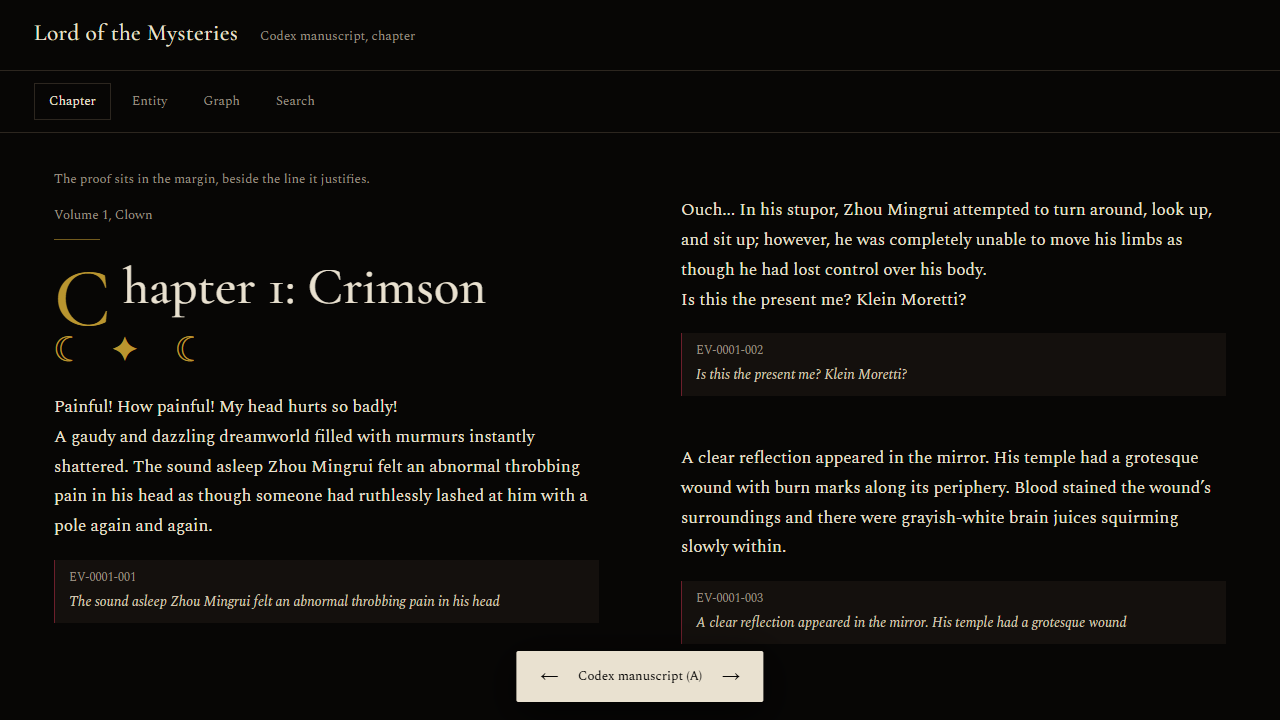
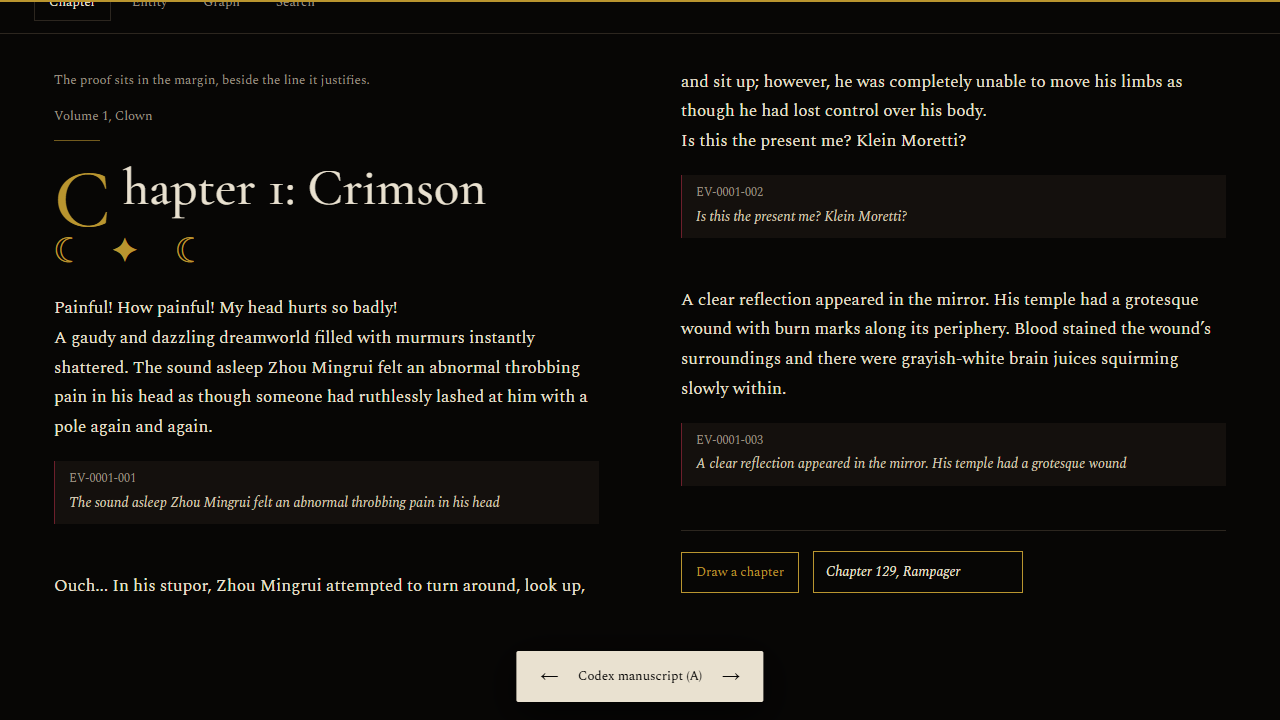
prototype: playful chapter draw and reading progress

diff --git a/prototype/art-direction/PROTOTYPE-WIPE-ME-site.html b/prototype/art-direction/PROTOTYPE-WIPE-ME-site.html
@@ -13,6 +13,11 @@
 @font-face{font-family:Spectral;src:url('fonts/spectral-italic.woff2') format('woff2');font-weight:400;font-style:italic;font-display:swap}
 :root{--ink:#070605;--vellum:#e9e1d0;--gold:#b9952f;--oxblood:#6d1f2b;--ash:#9a9080;--veil:#14100d;--line:#2c261f}
 *{box-sizing:border-box}
+#progress{position:fixed;top:0;left:0;height:2px;background:var(--gold);width:0;z-index:100;transition:width .12s linear}
+.variant-a .draw{margin-top:44px;padding-top:20px;border-top:1px solid var(--line);break-inside:avoid}
+.variant-a .draw button{background:none;border:1px solid var(--gold);color:var(--gold);padding:8px 14px;cursor:pointer;font-size:.8125rem}
+.variant-a .card{display:inline-block;margin-left:14px;padding:8px 12px;border:1px solid var(--line);min-width:210px;color:var(--ash);font-style:italic;font-size:.875rem}
+.variant-a .card.shown{color:var(--vellum);border-color:var(--gold)}
 body{margin:0;background:var(--ink);color:var(--vellum);font:400 1.0625rem/1.75 Spectral,Georgia,serif;min-height:100vh;padding-bottom:84px}
 button,input{font:inherit;color:inherit}
 button:focus-visible,input:focus-visible{outline:2px solid var(--gold);outline-offset:3px}
@@ -94,6 +99,7 @@ button:focus-visible,input:focus-visible{outline:2px solid var(--gold);outline-o
 </style>
 </head>
 <body>
+<div id="progress" aria-hidden="true"></div>
 <header class="topbar"><span class="brand">Lord of the Mysteries</span><small id="crumb"></small></header>
 <nav class="screens" id="screens"></nav>
 <main class="stage" id="stage"></main>
@@ -144,13 +150,17 @@ function render(){
  document.getElementById('screens').innerHTML=SCREENS.map(x=>`<button data-screen="${x.key}" class="${x.key===screen?'on':''}">${x.label}</button>`).join('');
  document.querySelectorAll('#screens button').forEach(b=>b.onclick=()=>{screen=b.dataset.screen;sync()});
  document.getElementById('stage').innerHTML=({A:renderA,B:renderB,C:renderC})[variant](screen);
+ const draw=document.getElementById('draw');
+ if(draw) draw.onclick=()=>{const cards=['Chapter 67, Response','Chapter 129, Rampager','Chapter 302, Miss Sharron','Chapter 999, Shermane','Chapter 1394, A New Journey'];
+  const card=document.getElementById('card');card.textContent=cards[Math.floor(Math.random()*cards.length)];card.classList.add('shown')};
 }
 function renderA(s){
  const d=DATA;
  if(s==='chapter') return `<p class="note">The proof sits in the margin, beside the line it justifies.</p>
   <div class="kicker">${d.chapter.book}</div><h1>${d.chapter.title}</h1><div class="sigil">&#9790; &#10022; &#9790;</div>
   ${d.chapter.paras.map((p,i)=>p+(i===1?`<div class="marg"><b>${d.chapter.quotes[0].label}</b>${d.chapter.quotes[0].text}</div>`:'')+(i===3?`<div class="marg"><b>${d.chapter.quotes[1].label}</b>${d.chapter.quotes[1].text}</div>`:'')).join('<br>')}
-  <div class="marg"><b>${d.chapter.quotes[2].label}</b>${d.chapter.quotes[2].text}</div>`;
+  <div class="marg"><b>${d.chapter.quotes[2].label}</b>${d.chapter.quotes[2].text}</div>
+  <div class="draw"><button id="draw" type="button">Draw a chapter</button><span class="card" id="card">The card turns when you ask.</span></div>`;
  if(s==='entity') return `<p class="note">A name, its other forms, then the order of its interventions.</p>
   <div class="sigil">&#10023;</div><div class="kicker">${d.entity.type}</div><h1>${d.entity.name}</h1>
   <div class="ribbon"><h2>Other names</h2><p>${d.entity.aliases.join(' and ')}</p></div>
@@ -210,6 +220,8 @@ document.getElementById('prev').onclick=()=>cycle(-1);
 document.getElementById('next').onclick=()=>cycle(1);
 addEventListener('keydown',e=>{if(/^(INPUT|TEXTAREA)$/.test(document.activeElement.tagName)||document.activeElement.isContentEditable)return;
  if(e.key==='ArrowLeft')cycle(-1);if(e.key==='ArrowRight')cycle(1)});
+addEventListener('scroll',()=>{const h=document.documentElement.scrollHeight-innerHeight;
+ document.getElementById('progress').style.width=(h>0?Math.min(100,scrollY/h*100):0)+'%'},{passive:true});
 render();
 </script>
 </body>

diff --git a/prototype/art-direction/DESIGN-PLAN.md b/prototype/art-direction/DESIGN-PLAN.md
@@ -58,3 +58,4 @@ Captures passées en revue une par une (`screenshots/variant-*.png`), pas seulem
 - **A** : la glose était un gros bloc ; elle est devenue une note étroite, bordée d'oxblood, posée à côté de la phrase. C'est le seul élément audacieux de l'écran.
 - **B** : le fond en grille et les libellés en petites capitales ont été retirés ; la grille n'apportait aucune information.
 - Contrôle final : 12/12 écrans rendent, zéro erreur console, focuses clavier visibles, `prefers-reduced-motion` respecté, mobile en une colonne.
+- Dernière consigne du client (« créatif, ludique, ergonomique ») : une règle dorée de progression en haut de page (ergonomie, quasi invisible) et un **tirage de chapitre** en fin de page A — un bouton « Draw a chapter » qui retourne une carte vers un chapitre aléatoire. Le jeu reste dans le thème (le Tarot Club) et ne touche pas à la lecture. Vérifié par clic : la carte change, zéro erreur console.
